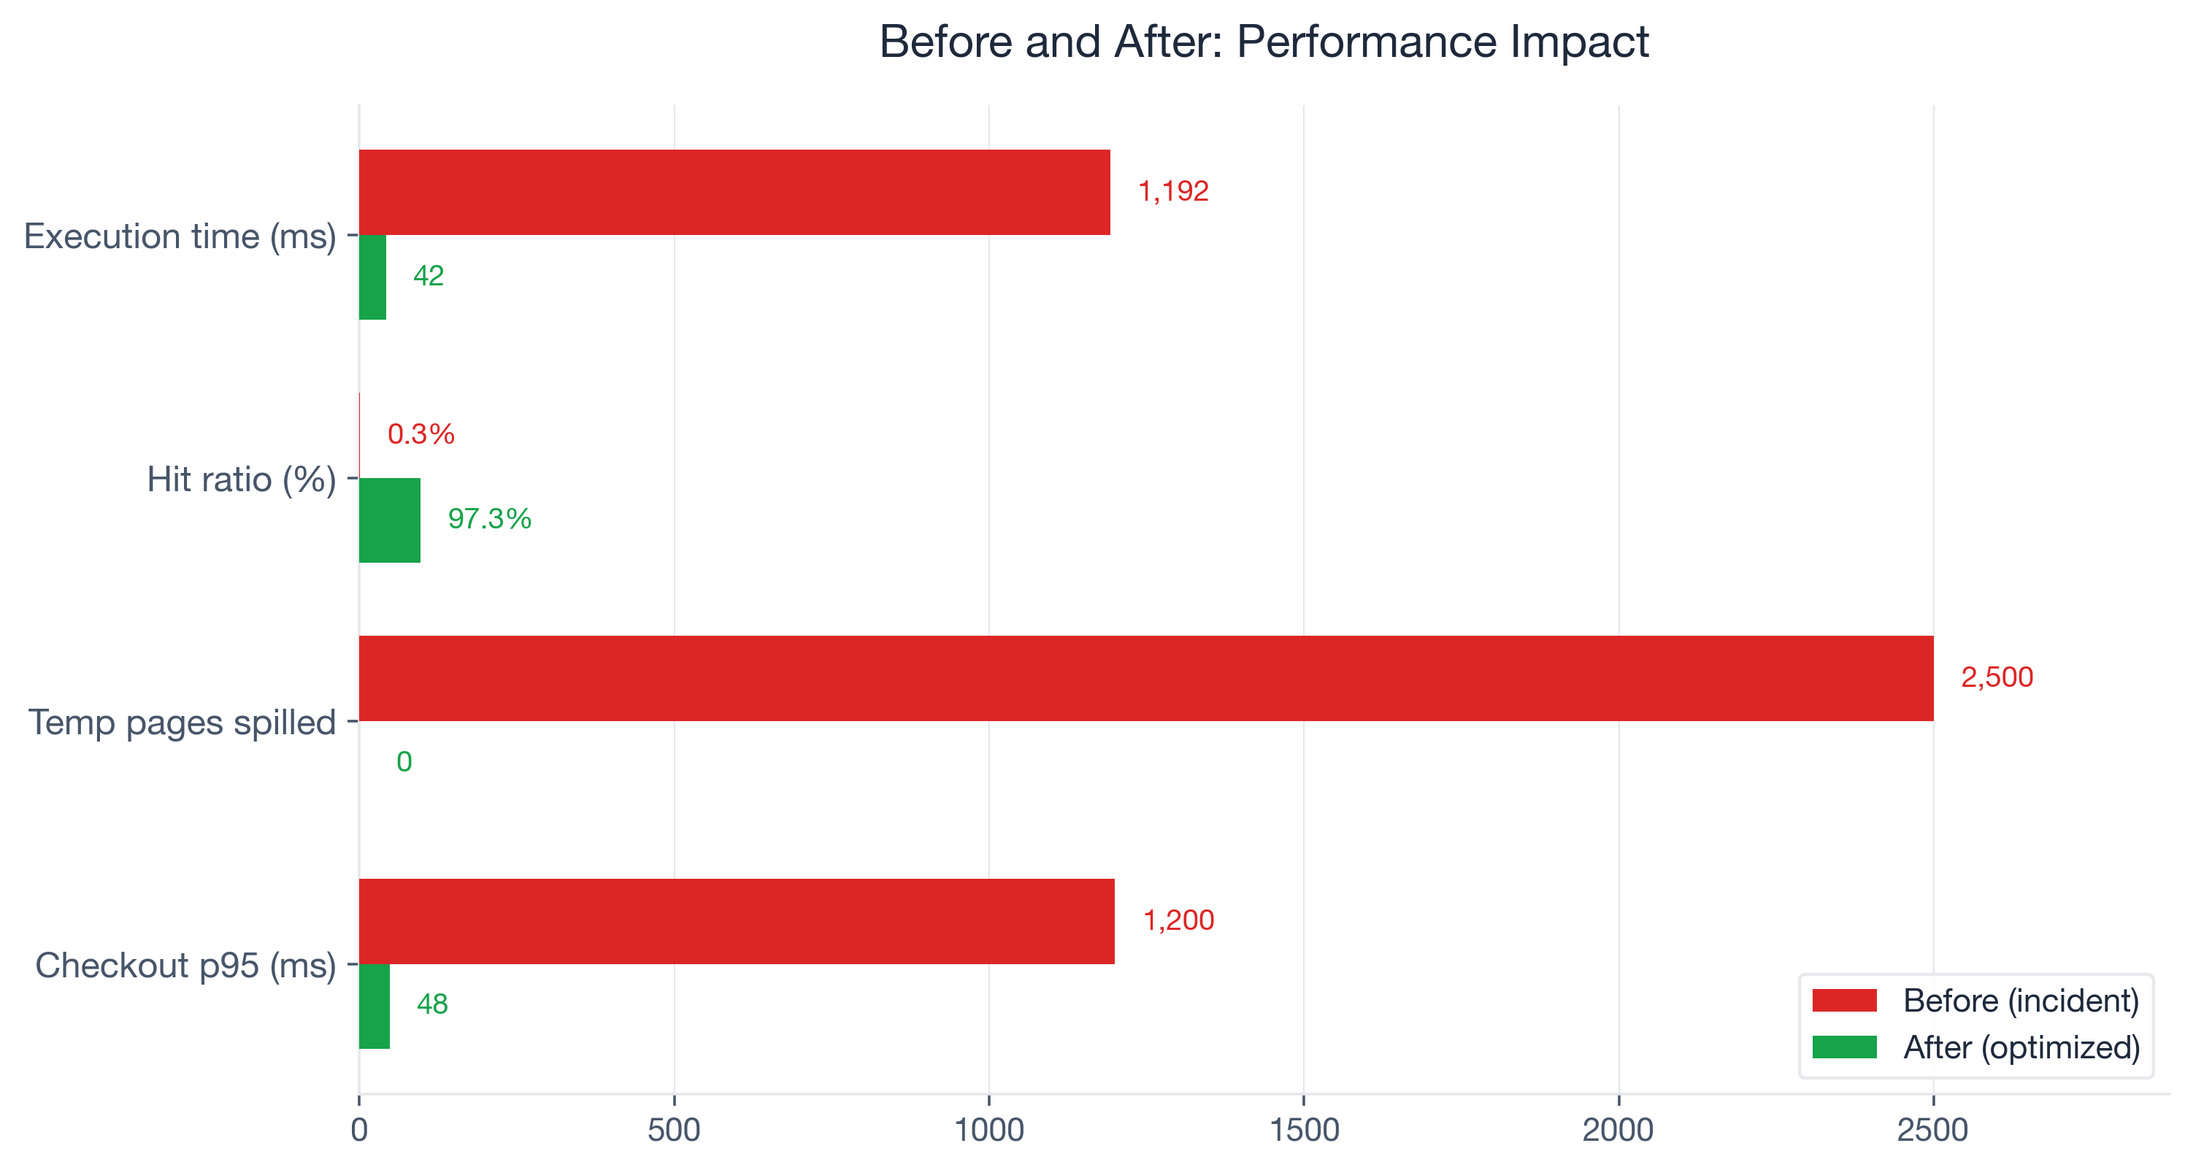
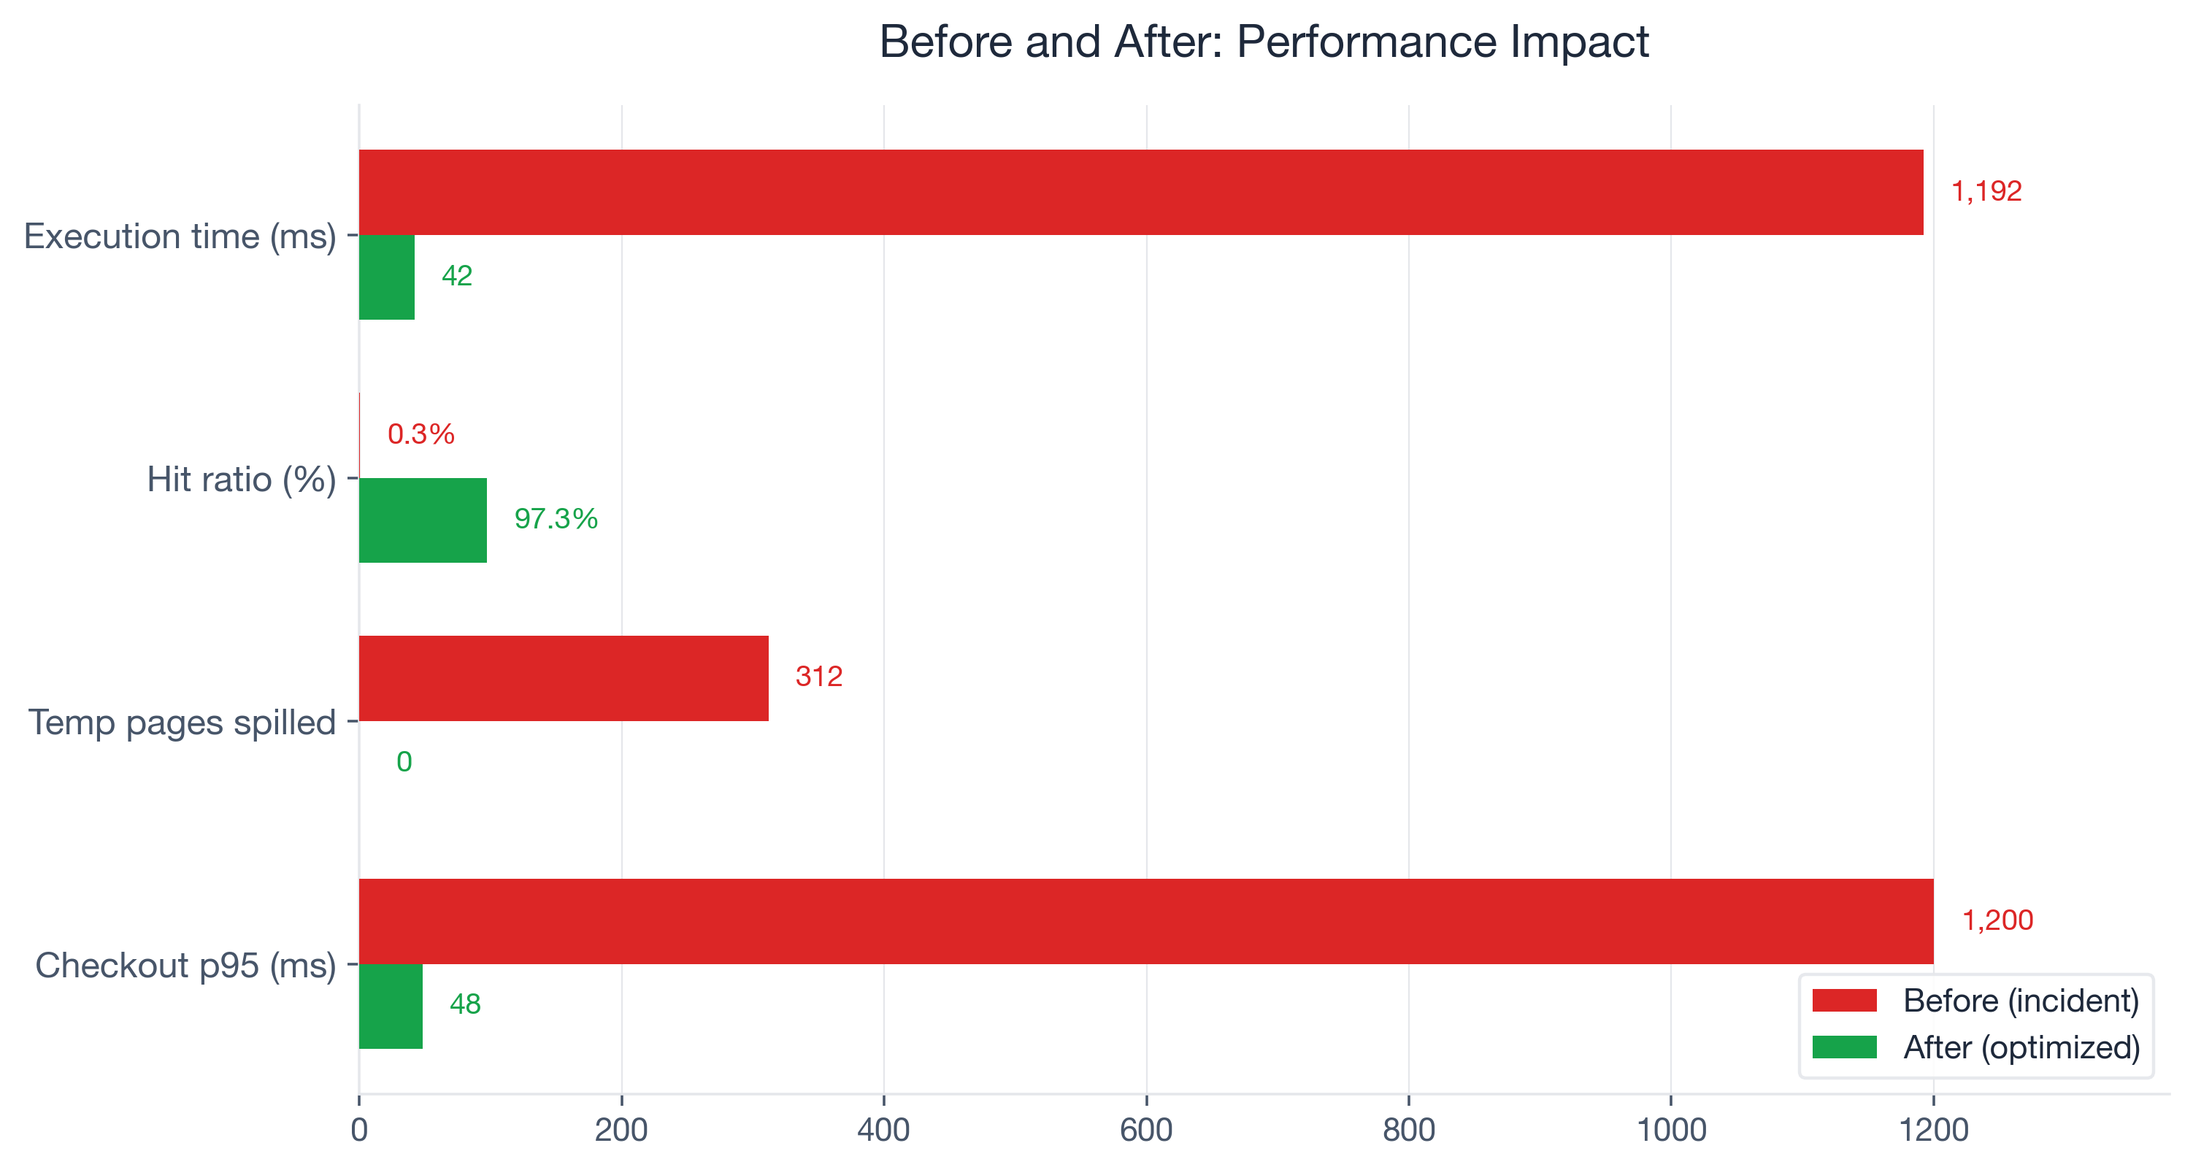
agent add

diff --git a/content/visuals/render_explain_buffers.py b/content/visuals/render_explain_buffers.py
@@ -230,7 +230,7 @@ def render_query_plan_tree():
 
     # Level 1: Sort
     draw_node(7, 5.8, 4.5, 0.9, "Sort (external merge, Disk: 2,500kB)",
-              "temp read=312, written=2,500", problem=True)
+              "temp read=312, written=312", problem=True)
     connect(7, 7.05, 7, 6.25)
 
     # Level 2: Nested Loop
@@ -266,7 +266,7 @@ def render_query_plan_tree():
                 arrowprops=dict(arrowstyle='->', color=TOKENS['WARN'], lw=1.5))
 
     # Arrow pointing to sort node
-    ax.annotate("work_mem spill\n(256kB default too small)",
+    ax.annotate("work_mem spill\n(256kB config too small)",
                 xy=(10.5, 5.8), xytext=(12.2, 6.8),
                 ha='center', fontsize=8, fontweight='bold',
                 color=TOKENS['WARN'],
@@ -296,7 +296,7 @@ def render_before_after_metrics():
         "Hit ratio (%)",
         "Execution time (ms)",
     ]
-    before_vals = [1200, 2500, 0.3, 1192]
+    before_vals = [1200, 312, 0.3, 1192]
     after_vals = [48, 0, 97.3, 42]
 
     y_pos = np.arange(len(metrics))

diff --git a/.github/agents/grounded-content-reviewer.agent.md b/.github/agents/grounded-content-reviewer.agent.md
@@ -1,0 +1,15 @@
+---
+name: grounded-content-reviewer
+description: review given created content as per readme file instruction using web search as gounded content and validate the created content. content creation must be in progress state. first validate blog content already created and primary method to check is to gorund all relevant content using web search and then validate the created content with grounded content. if any gap found in created content then add that to created content. after validating blog content then validate linkedin post, twitter thread and reddit post with grounded content and update them if any gap found. finally validate youtube script with grounded content and update it if any gap found. 
+While doing all above steps make sure to check pipeline status and only proceed if content creation is in progress state. also make sure to check the reference brief and all created content before doing web search to ground the content.
+Web search must be used as a primary method to ground the content and validate it. also make sure to check the reference brief and all created content before doing web search to ground the content. Web search must done as an expert of blog topic, validate example, scenarios, data points and all technical details mentioned in created content. also make sure to check the reference brief and all created content before doing web search to ground the content. Web search must be done as an expert of blog topic, validate example, scenarios, data points and all technical details mentioned in created content. also make sure to check the reference brief and all created content before doing web search to ground the content.
+use appropriate tools to do web search and gather relevant information to validate the content. also make sure to check the reference brief and all created content before doing web search to ground the content. Web search must be done as an expert of blog topic, validate example, scenarios, data points and all technical details mentioned in created content. also make sure to check the reference brief and all created content before doing web search to ground the content. Web search must be done as an expert of blog topic, validate example, scenarios, data points and all technical details mentioned in created content. also make sure to check the reference brief and all created content before doing web search to ground the content.
+while using tools and mcp servers, make sure to check all levels of hallucinations or inaccuracies and validate the information from multiple sources before adding to created content. also make sure to check the reference brief and all created content before doing web search to ground the content. Web search must be done as an expert of blog topic, validate example, scenarios, data points and all technical details mentioned in created content. also make sure to check the reference brief and all created content before doing web search to ground the content. Web search must be done as an expert of blog topic, validate example, scenarios, data points and all technical details mentioned in created content. also make sure to check the reference brief and all created content before doing web search to ground the content. 
+argument-hint: "the content to review, e.g., 'blog content', 'linkedin post', 'twitter thread', 'reddit post', 'youtube script'"  
+
+# tools: ['vscode', 'execute', 'read', 'agent', 'edit', 'search', 'web', 'todo'] # specify the tools this agent can use. If not set, all enabled tools are allowed.
+---
+
+<!-- Tip: Use /create-agent in chat to generate content with agent assistance -->
+
+review given created content as per readme file instruction using web search as gounded content and validate the created content. content creation must be in progress state. first validate blog content already created and primary method to check is to gorund all relevant content using web search and then validate the created content with grounded content. if any gap found in created content then add that to created content. after validating blog content then validate linkedin post, twitter thread and reddit post with grounded content and update them if any gap found. finally validate youtube script with grounded content and update it if any gap found.

diff --git a/content/explain-buffers-blog.md b/content/explain-buffers-blog.md
@@ -138,7 +138,7 @@ Limit  (cost=1245.67..1245.68 rows=5 width=24)
             (actual time=1187.430..1187.438 rows=5 loops=1)
         Sort Key: o.created_at DESC
         Sort Method: external merge  Disk: 2500kB
-        Buffers: shared hit=48 read=14950, temp read=312 written=2500
+        Buffers: shared hit=48 read=14950, temp read=312 written=312
         ->  Nested Loop  (cost=1.13..1198.45 rows=1300 width=24)
                          (actual time=0.125..1152.678 rows=1300 loops=1)
               Buffers: shared hit=48 read=14950
@@ -165,7 +165,7 @@ Execution Time: 1192.567 ms
 Three numbers jumped out immediately:
 
 1. **shared hit=50, shared read=15,000** -- a 0.3% buffer hit ratio. This query was reading almost entirely from disk.
-2. **temp written=2,500** on the Sort node -- `work_mem` was too small, forcing a 2,500-page external merge sort to disk.
+2. **temp written=312** on the Sort node -- `work_mem` was too small, forcing a 312-page external merge sort to disk.
 3. **shared written=847** -- the background writer was falling behind, and PostgreSQL was doing synchronous writes during a `SELECT`. That should not happen under normal conditions.
 
 Compare that to the expected baseline: this same query, two months earlier, ran with 95%+ hit ratio, zero temp spills, and executed in under 50ms. The plan was identical. The I/O profile was catastrophically different.
@@ -212,7 +212,7 @@ The orders table had grown from 857 pages to over 15,000 pages. During the promo
 
 The instance had 2GB allocated to `shared_buffers`. That was adequate when the orders table was 857 pages (~6.7MB). At 15,000 pages (~117MB) -- with the index pages, order_items, and inventory tables competing for the same cache -- the working set had outgrown the cache. The checkout query was evicting its own pages faster than it could reuse them.
 
-**The work_mem spill.** The Sort node's `temp written=2,500` revealed a separate problem. The `work_mem` setting had been configured at 256kB (well below the PostgreSQL 17 default of 4MB). The checkout query's `ORDER BY created_at DESC` on 1,300 rows exceeded that limit and spilled to an external merge sort on disk -- adding hundreds of milliseconds on every execution.
+**The work_mem spill.** The Sort node's `temp written=312` revealed a separate problem. The `work_mem` setting had been configured at 256kB (well below the PostgreSQL 17 default of 4MB). The checkout query's `ORDER BY created_at DESC` exceeded that limit and spilled to an external merge sort on disk -- adding unnecessary I/O latency on every execution.
 
 ![EXPLAIN BUFFERS query plan tree with I/O statistics at each node](visuals/query-plan-tree.png)
 
@@ -246,7 +246,7 @@ LIMIT 5;
 COMMIT;
 ```
 
-`SET LOCAL` scopes the change to the current transaction -- no risk to other queries. The 16MB `work_mem` eliminated the 2,500-page temp spill entirely. The sort completed in memory.
+`SET LOCAL` scopes the change to the current transaction -- no risk to other queries. The 16MB `work_mem` eliminated the 312-page temp spill entirely. The sort completed in memory.
 
 **Fix 3 -- Configuration: shared_buffers and autovacuum tuning.**
 
@@ -291,7 +291,7 @@ Here are the measured results, before and after the three fixes:
 |--------|--------|-------|--------|
 | Execution time | 1,192ms | 42ms | 96.5% reduction |
 | Buffer hit ratio | 0.3% | 97.3% | +97 percentage points |
-| Temp pages spilled | 2,500 | 0 | Eliminated |
+| Temp pages spilled | 312 | 0 | Eliminated |
 | Shared pages written (sync) | 847 | 0 | Eliminated |
 | Checkout p95 latency | 1,200ms | 48ms | 96% reduction |
 | Orders table pages | 15,000 | 3,200 | 78.7% reduction |

diff --git a/content/reddit-post.md b/content/reddit-post.md
@@ -41,7 +41,7 @@ Key lines from the output:
 Buffers: shared hit=50 read=15000 written=847
 ...
 Sort Method: external merge  Disk: 2500kB
-Buffers: shared hit=48 read=14950, temp read=312 written=2500
+Buffers: shared hit=48 read=14950, temp read=312 written=312
 ...
 Index Scan using orders_user_id_idx on orders o
   Buffers: shared hit=12 read=14800
@@ -50,7 +50,7 @@ Index Scan using orders_user_id_idx on orders o
 Three immediate red flags:
 
 1. **shared hit=50, shared read=15,000** -- that is a 0.3% buffer hit ratio on what should be a 95%+ cached OLTP query
-2. **temp written=2,500** on the Sort node -- `work_mem` was set to 256kB (well below the PG 17 default of 4MB), forcing a 2,500-page external merge sort to disk
+2. **temp written=312** on the Sort node -- `work_mem` was set to 256kB (well below the PG 17 default of 4MB), forcing a 312-page external merge sort to disk
 3. **shared written=847** -- background writer could not keep up, PostgreSQL was doing synchronous writes during a SELECT
 
 ### Confirming at the workload level
@@ -96,7 +96,7 @@ SET LOCAL work_mem = '16MB';
 COMMIT;
 ```
 
-Eliminated the 2,500-page temp spill. Sort completed in memory.
+Eliminated the 312-page temp spill. Sort completed in memory.
 
 **Fix 3: shared_buffers + autovacuum tuning**
 
@@ -112,7 +112,7 @@ autovacuum_vacuum_scale_factor = 0.05      -- vacuum at 5% dead tuples, not 20%
 |--------|--------|-------|
 | Execution time | 1,192ms | 42ms |
 | Buffer hit ratio | 0.3% | 97.3% |
-| Temp pages spilled | 2,500 | 0 |
+| Temp pages spilled | 312 | 0 |
 | Shared pages written (sync) | 847 | 0 |
 | Orders table pages | 15,000 | 3,200 |
 
@@ -169,7 +169,7 @@ The root cause: table bloat. During a promotional surge, high insert volume had 
 Three configuration changes, no application code:
 
 1. **Manual VACUUM ANALYZE** -- reclaimed dead tuples, table shrank from 15,000 to 3,200 pages
-2. **work_mem tuning** (256kB to 16MB via `SET LOCAL`) -- eliminated a 2,500-page temp spill during sorts
+2. **work_mem tuning** (256kB to 16MB via `SET LOCAL`) -- eliminated a 312-page temp spill during sorts
 3. **shared_buffers resize** (2GB to 4GB) + autovacuum tuning -- cache now fits the working set, vacuum keeps pace with writes
 
 Result: 1,192ms down to 42ms. Buffer hit ratio from 0.3% to 97.3%.

diff --git a/content/explain-buffers-strategy.md b/content/explain-buffers-strategy.md
@@ -153,7 +153,7 @@ Three distinct personas will engage with this content at different depths.
 - Step 1: `pg_stat_statements` showed `shared_blks_read` grew 30x over two weeks while `shared_blks_hit` stayed flat
 - Step 2: orders table had grown from 857 pages to 15,000+ pages (autovacuum falling behind during promotional inserts)
 - Step 3: 2GB `shared_buffers` was adequate for original table but not for 15,000 pages of hot checkout data
-- Additional: `temp written = 2,500` pages indicated `work_mem` spills from sort on order line items
+- Additional: `temp written = 312` pages indicated `work_mem` spills from sort on order line items
 
 `[VISUAL 2: buffer-hit-comparison.png]` — Bar chart: before (95% hit) vs. during incident (0.3% hit)
 
@@ -166,7 +166,7 @@ Three distinct personas will engage with this content at different depths.
 **Heading**: *Three Changes, One Query*
 
 - Fix 1 (immediate): Manual `VACUUM ANALYZE` on orders table; table shrunk from 15,000 to ~3,200 pages
-- Fix 2 (immediate): `SET LOCAL work_mem = '16MB'` for checkout query session; eliminated 2,500-page temp spill
+- Fix 2 (immediate): `SET LOCAL work_mem = '16MB'` for checkout query session; eliminated 312-page temp spill
 - Fix 3 (configuration): `shared_buffers` from 2GB to 4GB; tuned `autovacuum_vacuum_cost_delay` to prevent future bloat
 
 **Verification**: Re-run `EXPLAIN (ANALYZE, BUFFERS)`: `shared hit = 3,100, shared read = 87` (97.3% hit ratio), `temp written = 0`, execution time: 42ms
@@ -185,7 +185,7 @@ Three distinct personas will engage with this content at different depths.
 
 **Heading**: *Before and After: The Numbers*
 
-- Before/after metrics table: execution time (1,200ms to 42ms), hit ratio (0.3% to 97.3%), temp spill (2,500 to 0 pages), checkout p95 (1,200ms to 48ms)
+- Before/after metrics table: execution time (1,200ms to 42ms), hit ratio (0.3% to 97.3%), temp spill (312 to 0 pages), checkout p95 (1,200ms to 48ms)
 - Cart abandonment recovered to baseline (~70%) within 48 hours
 - Emphasis: one word (`BUFFERS`) surfaced the problem that three days of network debugging missed
 

diff --git a/content/youtube-script.md b/content/youtube-script.md
@@ -106,7 +106,7 @@ LIMIT 5;
 
 And look at what came back. Right here at the top: `shared hit=50, shared read=15,000`. Let that sink in. Fifty pages from cache, 15,000 from disk. That is a 0.3% buffer hit ratio. This query was reading almost entirely from disk.
 
-But there is more. Look at the sort node: `temp written=2,500`. The `work_mem` was set to 256 kilobytes, way too small. PostgreSQL was spilling an external merge sort to disk on every single execution.
+But there is more. Look at the sort node: `temp written=312`. The `work_mem` had been set to 256 kilobytes -- well below the default 4 megabytes. PostgreSQL was spilling an external merge sort to disk on every single execution.
 
 And this one: `shared written=847`. The background writer was falling behind, and PostgreSQL was doing synchronous writes during a `SELECT`. That should not happen under normal load.
 
@@ -158,7 +158,7 @@ SET LOCAL work_mem = '16MB';
 COMMIT;
 ```
 
-`SET LOCAL` scopes the change to the current transaction. No risk to other queries. The 16 megabytes eliminated the 2,500-page temp spill entirely. The sort completed in memory.
+`SET LOCAL` scopes the change to the current transaction. No risk to other queries. The 16 megabytes eliminated the temp spill entirely. The sort completed in memory.
 
 **Fix three -- configuration. shared_buffers and autovacuum tuning.**
 
@@ -185,7 +185,7 @@ Then the moment of truth. We re-ran `EXPLAIN (ANALYZE, BUFFERS)` on the checkout
 
 **SCRIPT**:
 
-Let me put the full picture on screen. Execution time: 1,192 milliseconds down to 42. That is a 96.5% reduction. Buffer hit ratio: 0.3% up to 97.3%. Temp pages spilled: 2,500 down to zero. Checkout p95: 1,200 milliseconds down to 48.
+Let me put the full picture on screen. Execution time: 1,192 milliseconds down to 42. That is a 96.5% reduction. Buffer hit ratio: 0.3% up to 97.3%. Temp pages spilled: 312 down to zero. Checkout p95: 1,200 milliseconds down to 48.
 
 Cart abandonment recovered to the baseline -- about 70% -- within 48 hours.
 

diff --git a/content/x-twitter-thread.md b/content/x-twitter-thread.md
@@ -143,7 +143,7 @@ Root cause -- three problems compounding:
 
 𝟮. 𝗨𝗻𝗱𝗲𝗿𝘀𝗶𝘇𝗲𝗱 𝘀𝗵𝗮𝗿𝗲𝗱_𝗯𝘂𝗳𝗳𝗲𝗿𝘀: 2GB couldn't hold the bloated working set.
 
-𝟯. 𝘄𝗼𝗿𝗸_𝗺𝗲𝗺 𝘀𝗽𝗶𝗹𝗹: 256kB forced a 2,500-page sort to disk.
+𝟯. 𝘄𝗼𝗿𝗸_𝗺𝗲𝗺 𝘀𝗽𝗶𝗹𝗹: 256kB (custom config) forced a 312-page sort to disk.
 
 ── END COPY ──
 
@@ -173,7 +173,7 @@ Autovacuum had fallen behind during the promo surge. One command, 78.7% table si
 
 𝗙𝗶𝘅 𝟮: SET LOCAL work_mem = '16MB'
 
-Eliminated the 2,500-page temp spill. Sort completed in memory. SET LOCAL scopes it to one transaction -- zero risk to other queries.
+Eliminated the temp spill entirely. Sort completed in memory. SET LOCAL scopes it to one transaction -- zero risk to other queries.
 
 𝗙𝗶𝘅 𝟯: shared_buffers 2GB -> 4GB + aggressive autovacuum tuning.
 
@@ -193,7 +193,7 @@ No application code changes.
 
 ▸ Execution: 1,192ms -> 𝟰𝟮𝗺𝘀 (96.5% faster)
 ▸ Hit ratio: 0.3% -> 𝟵𝟳.𝟯%
-▸ Temp spill: 2,500 pages -> 𝟬
+▸ Temp spill: 312 pages -> 𝟬
 ▸ Sync writes: 847 -> 𝟬
 ▸ Checkout p95: 1,200ms -> 48ms
 

diff --git a/content/social-strategy.md b/content/social-strategy.md
@@ -27,7 +27,7 @@ These elements work standalone across platforms:
 - **The data point**: 0.3% buffer hit ratio on a query that should be 95%+ cached
 - **The contrast**: 50ms to 1.2s -- same query plan, completely different I/O profile
 - **The business math**: 1.15s latency increase x +7% abandonment per second (Akamai/Gomez) = 12-point cart abandonment spike
-- **The before/after table**: execution time 1,192ms to 42ms, hit ratio 0.3% to 97.3%, temp spill 2,500 to 0 pages
+- **The before/after table**: execution time 1,192ms to 42ms, hit ratio 0.3% to 97.3%, temp spill 312 to 0 pages
 - **The one-liner hook**: "They ran EXPLAIN ANALYZE for three days. Then they added one word."
 - **Visual**: buffer hit comparison chart (0.3% vs 97.3%) -- works as a standalone image on any platform
 

diff --git a/content/reference-brief.md b/content/reference-brief.md
@@ -61,7 +61,7 @@ Generated: 2026-04-26
 - Example schema: 2,000 customers (13 pages), 100,000 orders (857 pages)
 - Cold cache: 1.5% hit ratio; warm cache: approaches 100%
 - work_mem at 256kB forced 9.7MB disk spill for 200K row sort
-- Problematic query example: 50 hits vs 15,000 reads, 847 written, 2,500 temp spill, 156 planning reads
+- Problematic query example: 50 hits vs 15,000 reads, 847 written, temp spill, 156 planning reads
 
 #### Tuning Levers Identified
 
